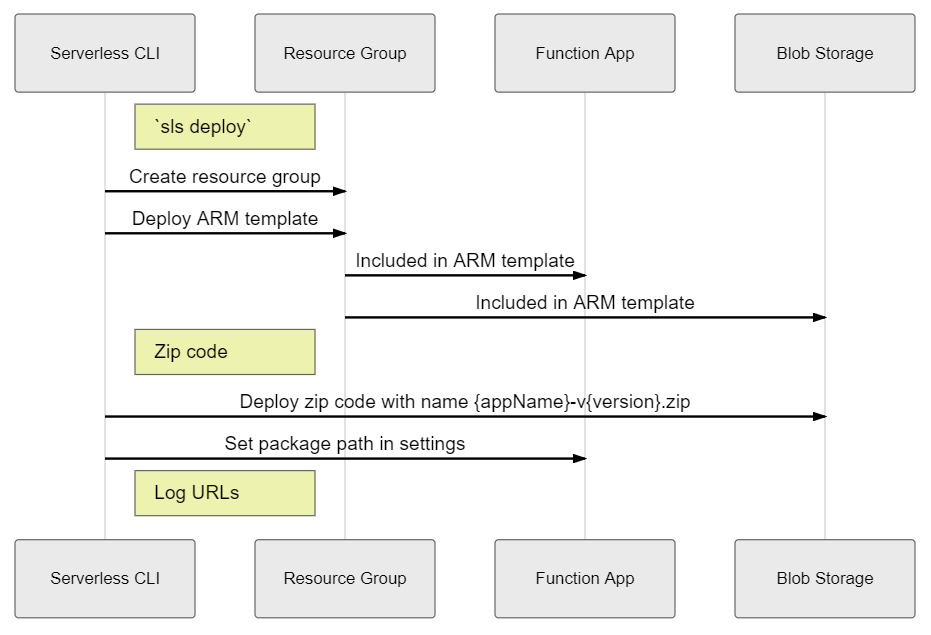
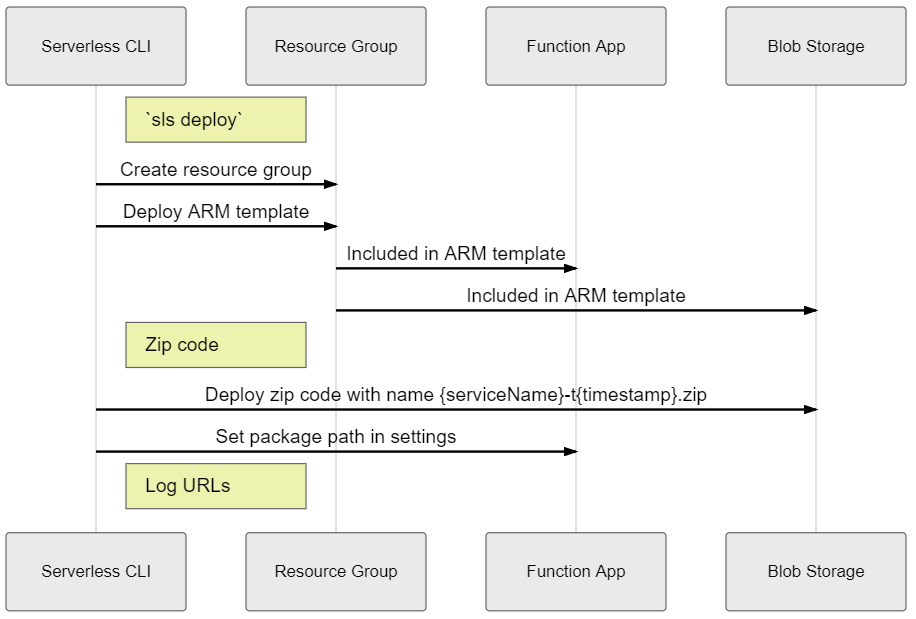
Update version to timestamp

diff --git a/docs/sequenceDiagrams/deployBlob.md b/docs/sequenceDiagrams/deployBlob.md
@@ -11,7 +11,7 @@ sequenceDiagram
   r ->> f: Included in ARM template
   r ->> b: Included in ARM template
   note right of s: Zip code
-  s ->> b: Deploy zip code with name {appName}-v{version}.zip
+  s ->> b: Deploy zip code with name {serviceName}-t{timestamp}.zip
   s ->> f: Set package path in settings
   note right of s: Log URLs 
 ```
